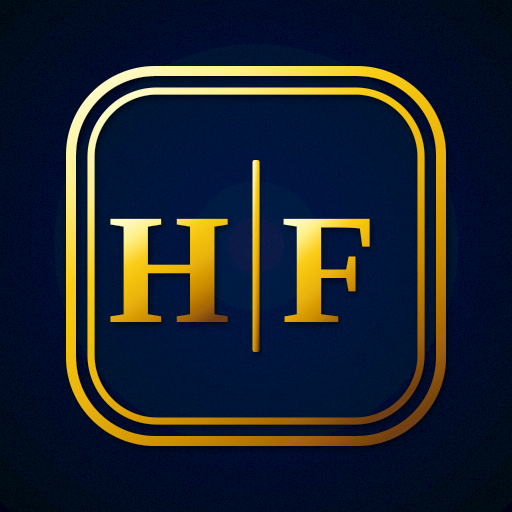
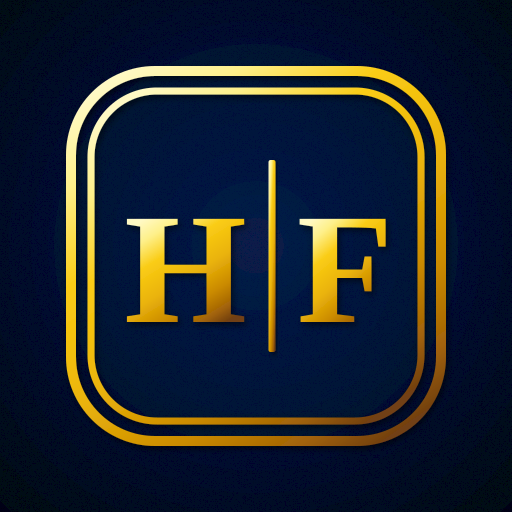
chore: update branding assets
Adjust monogram centering in favicon and generated icons for improved alignment.

Changed region(s): [[0.2188, 0.3125, 0.7812, 0.6875]]

diff --git a/index.html b/index.html
@@ -25,21 +25,21 @@
     <meta property="og:title" content="V-Card Hernán Fernández" />
     <meta property="og:description" content="Chef Ejecutivo & Asesor Gastronómico — Guateque Manduca. Menú Digital, Catering & Viandas al vacío. Descarga mi contacto (.vcf) y conéctate." />
     <meta property="og:url" content="https://vcard-hernan-fernandez.vercel.app/" />
-    <meta property="og:image" content="https://vcard-hernan-fernandez.vercel.app/og-monogram-blue.jpg?v=hf-center" />
-    <meta property="og:image:secure_url" content="https://vcard-hernan-fernandez.vercel.app/og-monogram-blue.jpg?v=hf-center" />
+    <meta property="og:image" content="https://vcard-hernan-fernandez.vercel.app/og-monogram-blue.jpg?v=hf-centered-box" />
+    <meta property="og:image:secure_url" content="https://vcard-hernan-fernandez.vercel.app/og-monogram-blue.jpg?v=hf-centered-box" />
     <meta property="og:image:type" content="image/jpeg" />
     <meta property="og:image:width" content="600" />
     <meta property="og:image:height" content="600" />
     <meta property="og:image:alt" content="Monograma H|F en oro sobre azul noche con doble marco redondeado" />
     <meta property="og:site_name" content="V-Card Hernán Fernández" />
-    <link rel="image_src" href="https://vcard-hernan-fernandez.vercel.app/og-monogram-blue.jpg?v=hf-center" />
-    <meta itemprop="image" content="https://vcard-hernan-fernandez.vercel.app/og-monogram-blue.jpg?v=hf-center" />
+    <link rel="image_src" href="https://vcard-hernan-fernandez.vercel.app/og-monogram-blue.jpg?v=hf-centered-box" />
+    <meta itemprop="image" content="https://vcard-hernan-fernandez.vercel.app/og-monogram-blue.jpg?v=hf-centered-box" />
     
     <!-- Twitter Cards -->
     <meta name="twitter:card" content="summary" />
     <meta name="twitter:title" content="V-Card Hernán Fernández" />
     <meta name="twitter:description" content="Chef Ejecutivo & Asesor Gastronómico — Guateque Manduca. Menú Digital, Catering & Viandas al vacío." />
-    <meta name="twitter:image" content="https://vcard-hernan-fernandez.vercel.app/og-monogram-blue.jpg?v=hf-center" />
+    <meta name="twitter:image" content="https://vcard-hernan-fernandez.vercel.app/og-monogram-blue.jpg?v=hf-centered-box" />
     <link rel="preconnect" href="https://fonts.googleapis.com">
     <link rel="preconnect" href="https://fonts.gstatic.com" crossorigin>
     <link href="https://fonts.googleapis.com/css2?family=Cormorant+Garamond:ital,wght@0,400;0,600;0,700;1,400&family=Plus+Jakarta+Sans:wght@300;400;500;600;700&display=swap" rel="stylesheet">

diff --git a/scripts/generate-icons.js b/scripts/generate-icons.js
@@ -78,7 +78,7 @@ const iconSvg = Buffer.from(`
 
   <!-- Center Vertical Metallic Gold Divider Bar -->
   <rect 
-    x="505" 
+    x="537" 
     y="320" 
     width="14" 
     height="384" 
@@ -89,7 +89,7 @@ const iconSvg = Buffer.from(`
 
   <!-- Left Capital Serif Letter 'H' -->
   <text 
-    x="338" 
+    x="371" 
     y="644" 
     font-family="Liberation Serif, Nimbus Roman, C059, Georgia, serif" 
     font-size="315" 
@@ -102,7 +102,7 @@ const iconSvg = Buffer.from(`
 
   <!-- Right Capital Serif Letter 'F' -->
   <text 
-    x="658" 
+    x="690" 
     y="644" 
     font-family="Liberation Serif, Nimbus Roman, C059, Georgia, serif" 
     font-size="315" 
@@ -184,7 +184,7 @@ const bannerSvg = Buffer.from(`
 
     <!-- Central Divider Bar -->
     <rect 
-      x="211" 
+      x="226" 
       y="114" 
       width="8" 
       height="202" 
@@ -195,10 +195,10 @@ const bannerSvg = Buffer.from(`
 
     <!-- 'H' -->
     <text 
-      x="142" 
+      x="146" 
       y="276" 
       font-family="Liberation Serif, Nimbus Roman, C059, Georgia, serif" 
-      font-size="155" 
+      font-size="150" 
       font-weight="bold" 
       letter-spacing="-2" 
       fill="url(#bGold3D)" 
@@ -208,10 +208,10 @@ const bannerSvg = Buffer.from(`
 
     <!-- 'F' -->
     <text 
-      x="276" 
+      x="302" 
       y="276" 
       font-family="Liberation Serif, Nimbus Roman, C059, Georgia, serif" 
-      font-size="155" 
+      font-size="150" 
       font-weight="bold" 
       letter-spacing="-2" 
       fill="url(#bGold3D)" 
